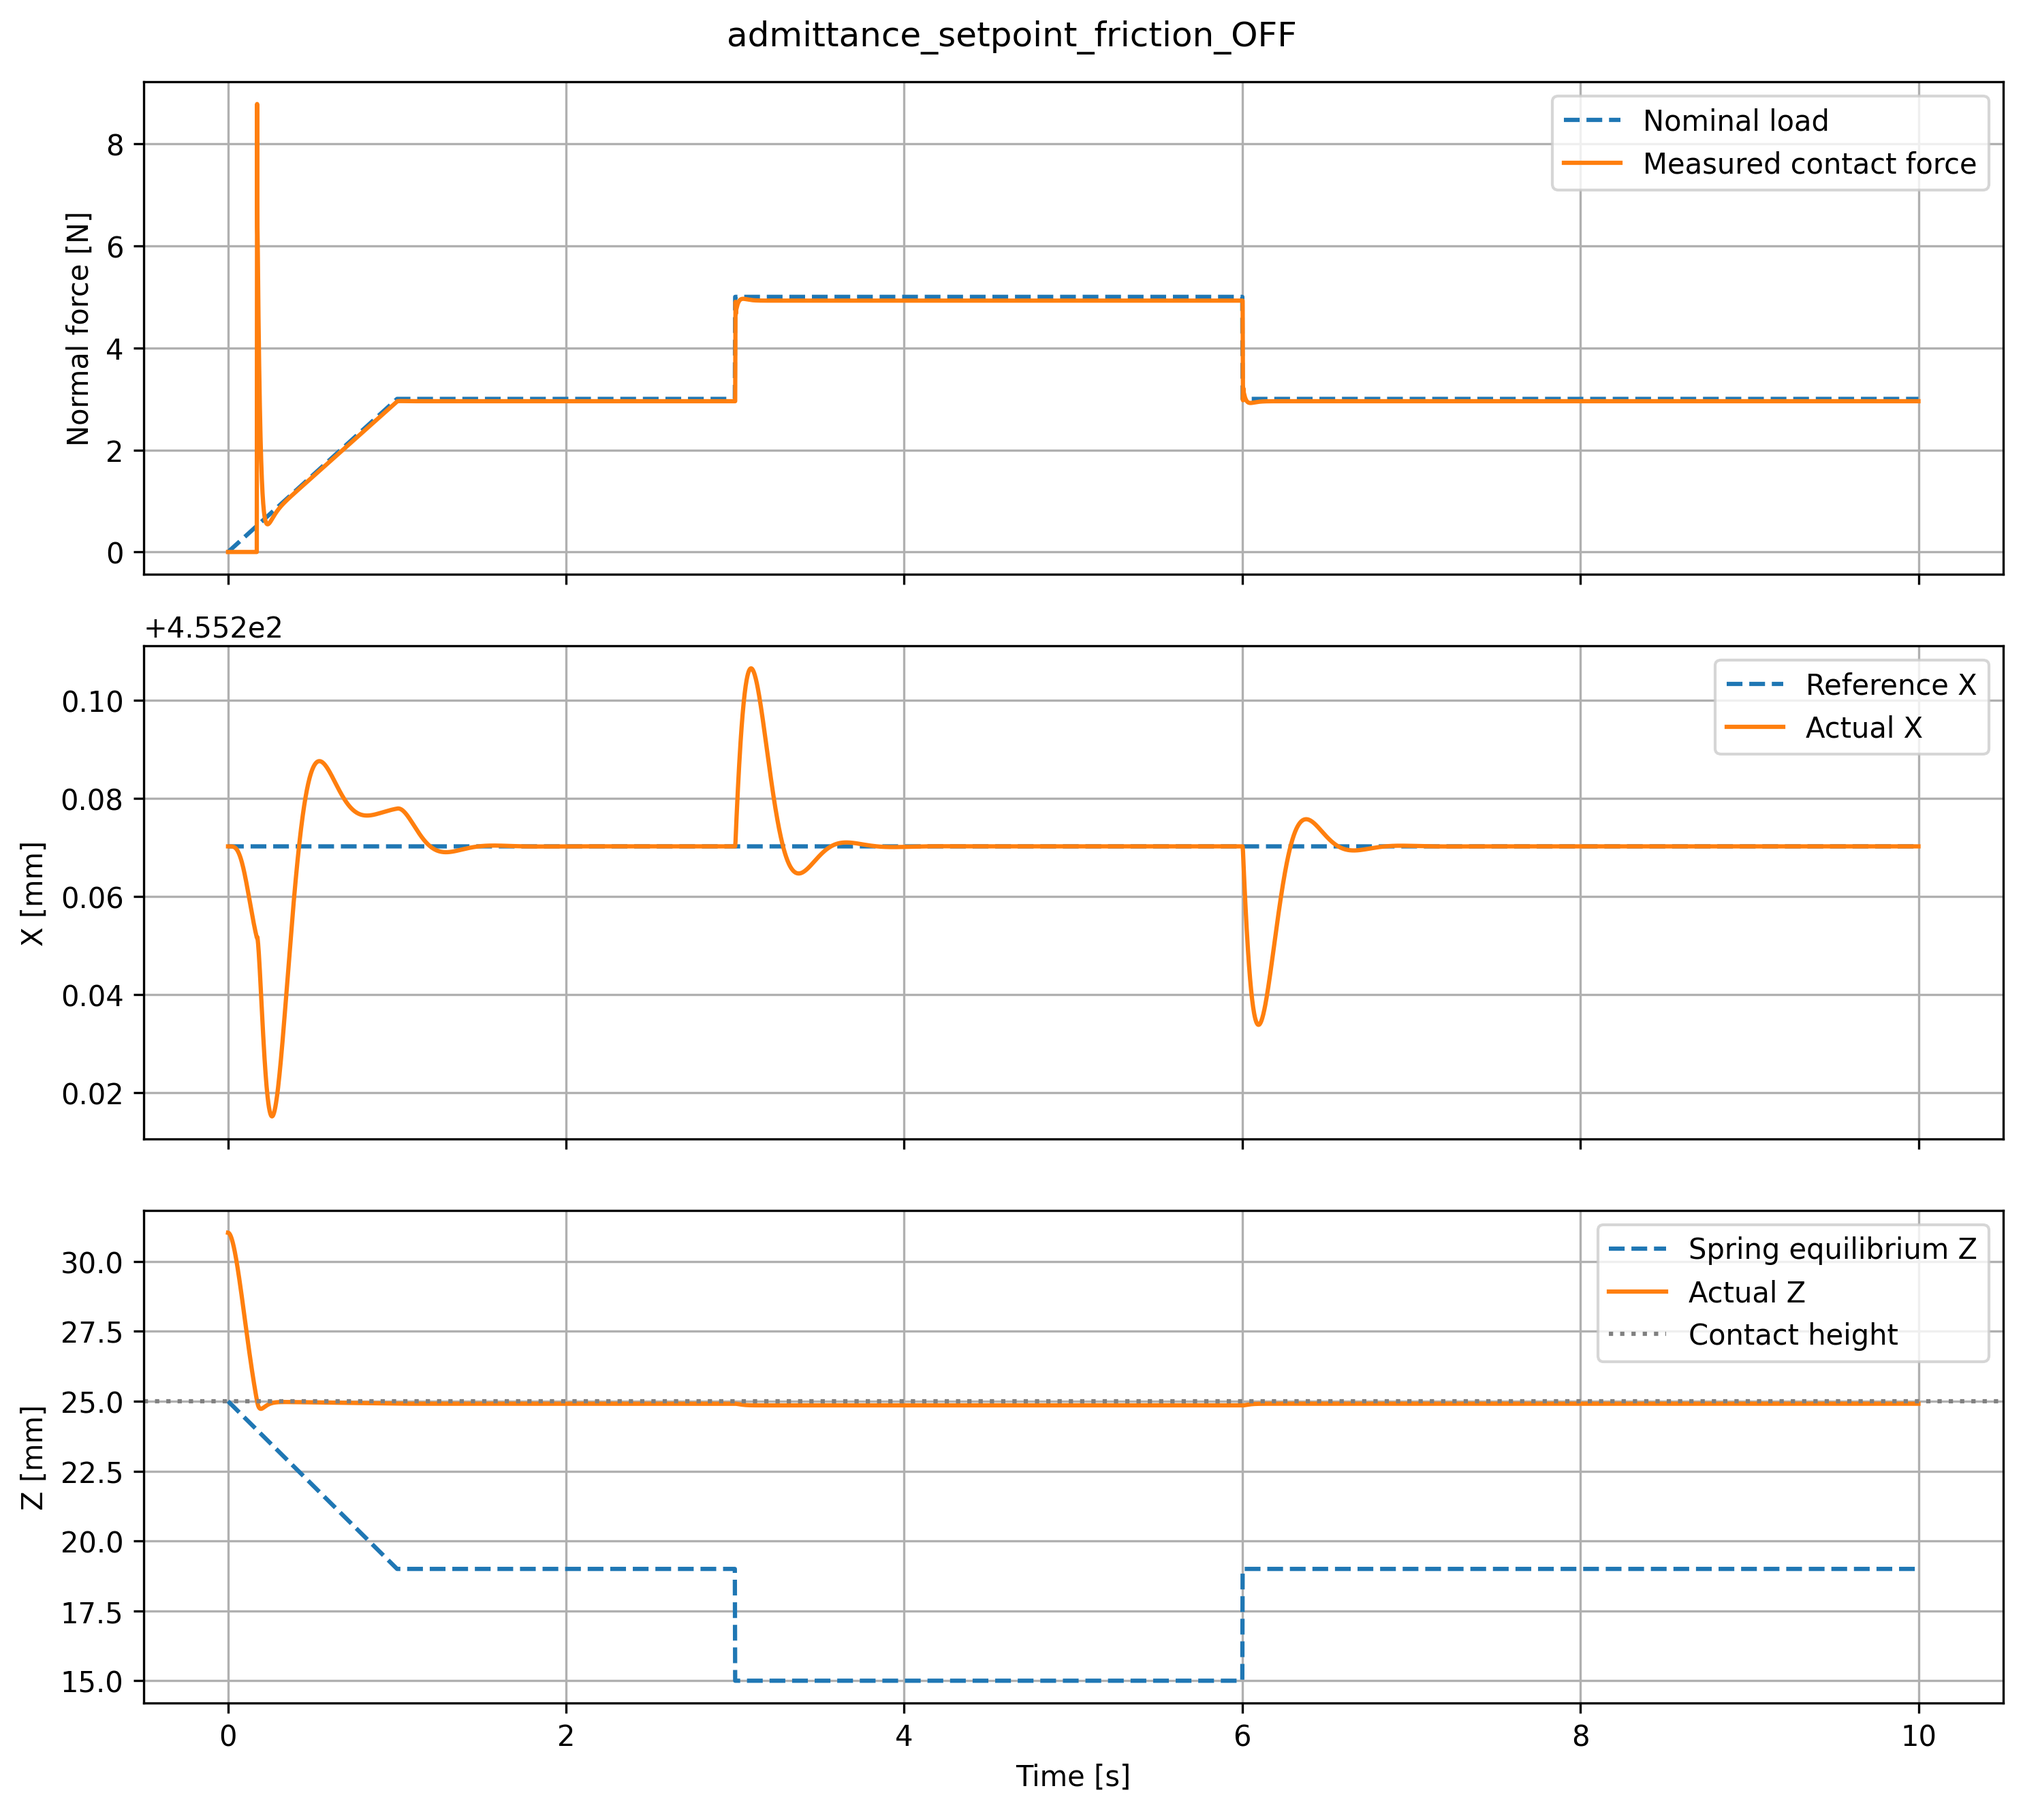
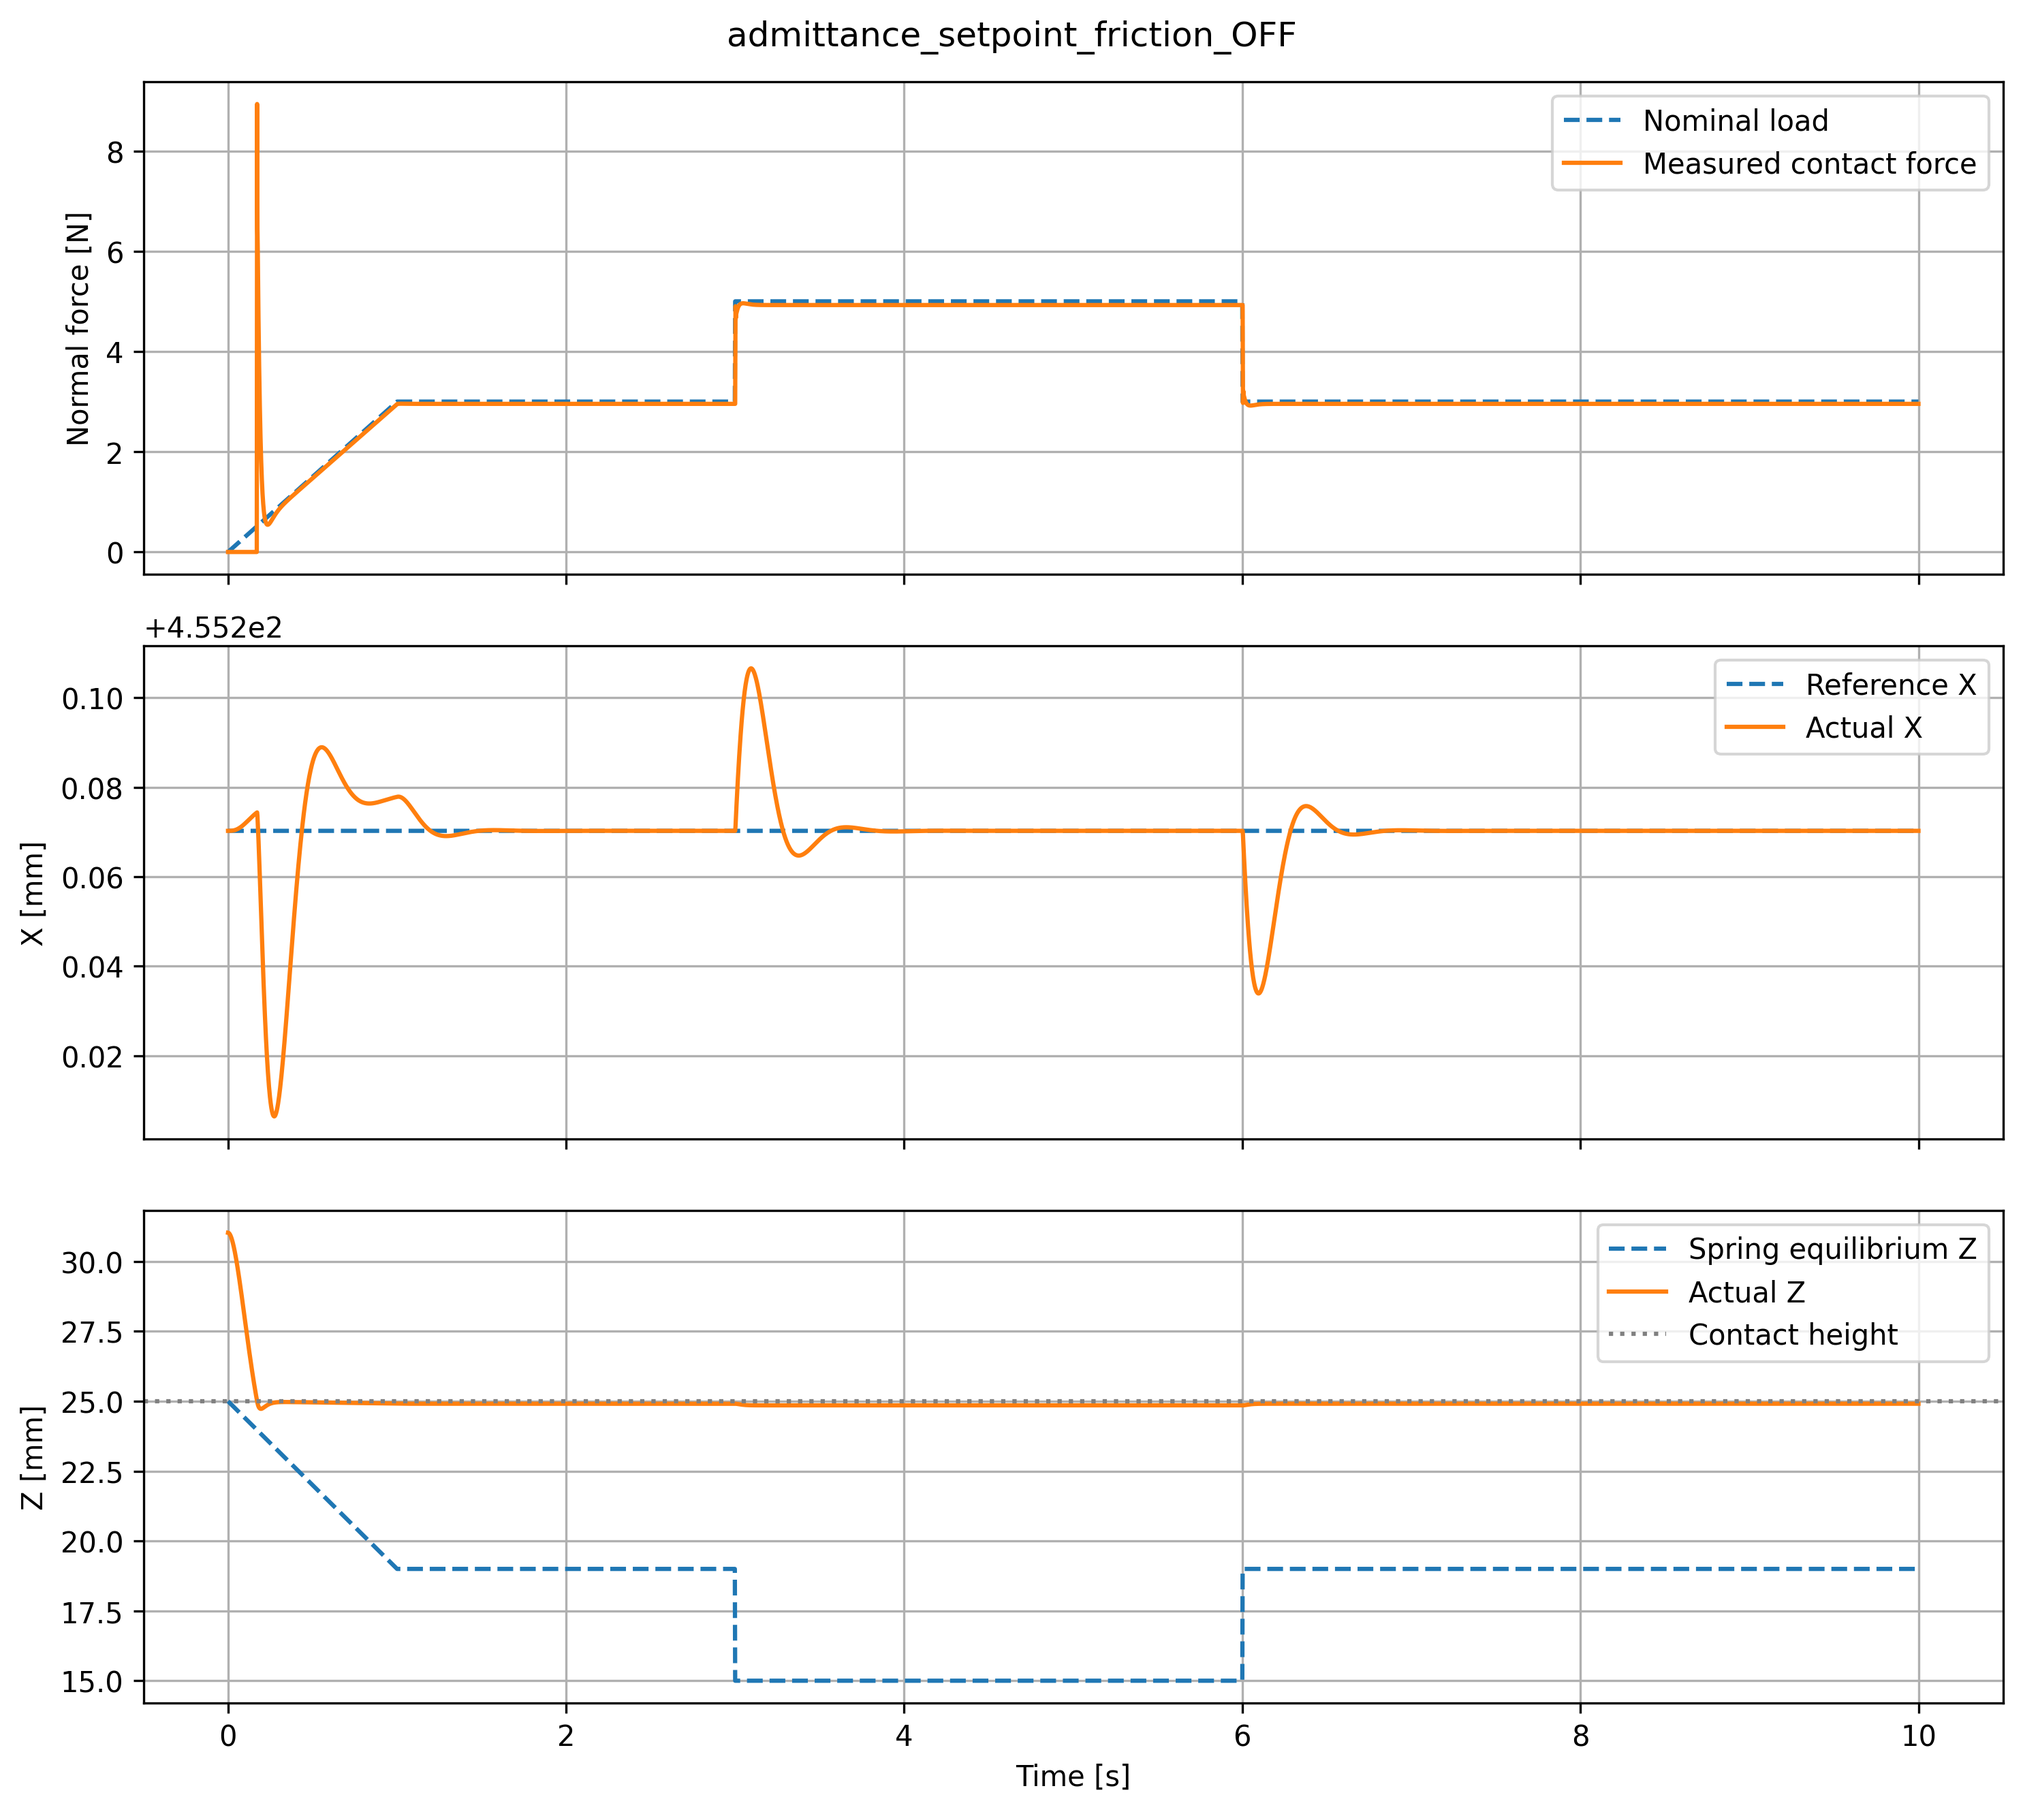
Add files via upload

diff --git a/main_admittance.py b/main_admittance.py
@@ -265,12 +265,12 @@ def main(task="setpoint", friction_on=False, seconds=10.0):
             F = read_floor_force(model, data, floor_id, tip_id)
 
             # Fd
-            if data.time < 15.0:
-                Fd = 7.0 * min(data.time / 1.0, 1.0)
-            elif data.time < 20.0:
-                Fd = 10.0
+            if data.time < 3.0:
+                Fd = 3.0 * min(data.time / 1.0, 1.0)
+            elif data.time < 6.0:
+                Fd = 5.0
             else:
-                Fd = 7.0
+                Fd = 3.0
 
             p_ref = p_start.copy()
             p_ref[2] = 0.025
@@ -307,7 +307,7 @@ def main(task="setpoint", friction_on=False, seconds=10.0):
 
             J = np.vstack((jac_pos, jac_rot))
             J_pinv = np.linalg.pinv(J, rcond=1e-5)
-            mujoco.mj_jacDot(model, data, jac_dot_pos, jac_dot_rot, p, site_id)
+            mujoco.mj_jacDot(model, data, jac_dot_pos, jac_dot_rot, p, site_body_id)
             Jdot = np.vstack((jac_dot_pos, jac_dot_rot))
 
             acc_des = np. r_[a_des, alpha_des]
@@ -315,7 +315,7 @@ def main(task="setpoint", friction_on=False, seconds=10.0):
             qdd_des = J_pinv @ (acc_des - Jdot @ data.qvel)
 
             qdd_null = np.zeros(model.nv)
-            qdd_null[dof_ids] = (10*(q_posture - data.qpos) - 6*data.qvel[dof_ids])
+            qdd_null[dof_ids] = (10*(q_posture - data.qpos[dof_ids]) - 6*data.qvel[dof_ids])
             N = np.eye(model.nv) - J_pinv @ J
             qdd_des += N @ qdd_null
 
@@ -398,4 +398,4 @@ def main(task="setpoint", friction_on=False, seconds=10.0):
             
             
 if __name__ == "__main__":
-    main(task="setpoint", friction_on=True, seconds=30.0,)
+    main(task="setpoint", friction_on=False, seconds=10.0,)
